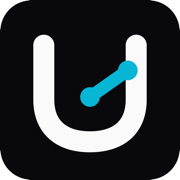
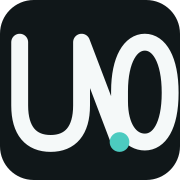
feat(brand): introduce continuous Uno identity

diff --git a/src/components/app/unorag-logo.tsx b/src/components/app/unorag-logo.tsx
@@ -2,15 +2,15 @@ import Image from "next/image";
 
 import { cn } from "@/lib/utils";
 
-/** Primary UnoRAG brand mark asset. */
-const UNORAG_MARK_SRC = "/brand/unorag-mark.svg";
+/** Canonical mark shared by the Uno product family. */
+const UNO_MARK_SRC = "/brand/uno-mark.svg";
 
-type UnoRAGLogoProps = {
+type UnoLogoProps = {
 	className?: string;
 	/** Icon-only mark size. */
 	size?: "sm" | "md" | "lg";
-	/** Show wordmark beside the mark. */
-	withWordmark?: boolean;
+	/** Product suffix appended to the stable Uno mother brand. */
+	suffix?: string;
 	wordmarkClassName?: string;
 };
 
@@ -20,19 +20,21 @@ const sizeClass = {
 	lg: "size-11",
 } as const;
 
-/** UnoRAG U-shaped knowledge graph mark. */
-export function UnoRAGMark({
+/** Continuous U-N-O mother-brand mark. */
+export function UnoMark({
 	className,
 	decorative = true,
+	label = "Uno",
 }: {
 	className?: string;
 	decorative?: boolean;
+	label?: string;
 }) {
 	return (
 		<Image
-			src={UNORAG_MARK_SRC}
-			alt={decorative ? "" : "UnoRAG"}
-			title={decorative ? undefined : "UnoRAG"}
+			src={UNO_MARK_SRC}
+			alt={decorative ? "" : label}
+			title={decorative ? undefined : label}
 			width={128}
 			height={128}
 			draggable={false}
@@ -42,25 +44,44 @@ export function UnoRAGMark({
 	);
 }
 
-export function UnoRAGLogo({
+export function UnoLogo({
 	className,
 	size = "md",
-	withWordmark = false,
+	suffix,
 	wordmarkClassName,
-}: UnoRAGLogoProps) {
+}: UnoLogoProps) {
+	const label = `Uno${suffix ?? ""}`;
+
 	return (
-		<span className={cn("inline-flex min-w-0 items-center gap-2.5", className)}>
-			<UnoRAGMark className={cn(sizeClass[size])} decorative={withWordmark} />
-			{withWordmark ? (
+		<span
+			className={cn("inline-flex min-w-0 items-center gap-2.5", className)}
+			role="img"
+			aria-label={label}
+		>
+			<UnoMark className={cn(sizeClass[size])} decorative />
+			{suffix !== undefined ? (
 				<span
 					className={cn(
-						"font-heading text-lg font-semibold tracking-tight text-primary",
+						"font-heading text-lg font-semibold tracking-normal text-foreground",
 						wordmarkClassName,
 					)}
+					aria-hidden
 				>
-					UnoRAG
+					Uno<span className="text-primary">{suffix}</span>
 				</span>
 			) : null}
 		</span>
 	);
+}
+
+/** Backward-compatible UnoRAG icon export. */
+export function UnoRAGMark(props: React.ComponentProps<typeof UnoMark>) {
+	return <UnoMark {...props} label="UnoRAG" />;
+}
+
+export function UnoRAGLogo({
+	withWordmark = false,
+	...props
+}: Omit<UnoLogoProps, "suffix"> & { withWordmark?: boolean }) {
+	return <UnoLogo {...props} suffix={withWordmark ? "RAG" : undefined} />;
 }

diff --git a/src/components/app/app-sidebar.tsx b/src/components/app/app-sidebar.tsx
@@ -9,7 +9,7 @@ import {
 	getAppNavItemsByGroup,
 } from "@/components/app/nav-items";
 import { useSession } from "@/components/app/session-provider";
-import { UnoRAGMark } from "@/components/app/unorag-logo";
+import { UnoMark } from "@/components/app/unorag-logo";
 import { WorkspaceSwitcher } from "@/components/app/workspace-switcher";
 import {
 	Sidebar,
@@ -103,9 +103,9 @@ export function AppSidebar() {
 								"group-data-[collapsible=icon]:size-8! group-data-[collapsible=icon]:p-1.5! group-data-[collapsible=icon]:[&_img]:size-6!",
 							)}
 						>
-							<UnoRAGMark decorative />
-							<span className="font-heading text-lg font-semibold tracking-tight text-primary">
-								UnoRAG
+							<UnoMark decorative />
+							<span className="font-heading text-lg font-semibold tracking-normal text-foreground">
+								Uno<span className="text-primary">RAG</span>
 							</span>
 						</SidebarMenuButton>
 					</SidebarMenuItem>

diff --git a/src/app/layout.tsx b/src/app/layout.tsx
@@ -16,7 +16,7 @@ export const metadata: Metadata = {
 				type: "image/png",
 			},
 			{
-				url: "/brand/unorag-mark.svg",
+				url: "/brand/uno-mark.svg",
 				type: "image/svg+xml",
 			},
 		],

diff --git a/docs/brand/uno-brand-system.md b/docs/brand/uno-brand-system.md
@@ -1,0 +1,51 @@
+# Uno 品牌系统
+
+Uno 是 Unobyte.dev 及其产品的母品牌。核心符号不是一个孤立的 `U`，而是一条连续路径依次形成
+`U → N → O`。它直接把名称写进轮廓，在小尺寸仍可辨认，也避开常见的 AI 星芒、节点网络和像素化
+字母语言。
+
+![Uno 品牌规范板](./uno-brand-board.svg)
+
+## 品牌架构
+
+| 层级 | 命名 | 用法 |
+|---|---|---|
+| 母品牌 | Unobyte | 官网、团队与组织身份 |
+| 产品 | UnoRAG | 企业知识产品 |
+| 产品 | UnoParse | 文档解析能力（预留） |
+| 产品 | UnoOps | 运维与可观测能力（预留） |
+| 产品 | UnoEval | 评测能力（预留） |
+
+所有产品使用同一个 Uno 图形，不为后缀重新设计图标。文字标识保持 `Uno` 不变，仅用 Signal 色强调
+产品后缀。这样产品数量增长时，识别资产仍然只积累在一个符号上。
+
+## 视觉语言
+
+| Token | 色值 | 用途 |
+|---|---|---|
+| Ink | `#101719` | 标志底色、主要文字 |
+| Paper | `#F5F9F9` | 标志线条、浅色背景 |
+| Signal | `#4CCBC0` | 路径原点、产品后缀、交互强调 |
+| Steel | `#607077` | 次要文字与说明 |
+
+- 图形中的 Signal 点位于 `N/O` 的转换位置，表达一条能力路径继续进入下一个产品。
+- 字标优先使用 IBM Plex Sans；技术标签和版本信息使用 IBM Plex Mono。
+- 不使用负字距、渐变、外发光、阴影、星芒或额外网络节点。
+
+## 尺寸与留白
+
+- `16px` 是数字界面的最小尺寸；低于 `24px` 时只使用图形，不并排放置字标。
+- 图形四周至少保留图标宽度 `1/4` 的留白。
+- 圆角方形是图形本体的一部分，不再套第二层装饰容器。
+- 不改变路径比例、线宽、颜色关系或 Signal 点位置。
+
+## 文件与组件
+
+- `public/brand/uno-mark.svg` 是唯一矢量主源。
+- `uno-mark.png`、favicon 和 Apple touch icon 都从该主源生成。
+- `UnoLogo` 接受产品后缀；`UnoRAGLogo` 是当前产品的兼容封装。
+
+## 权属提醒
+
+该图形为项目内原创矢量方案，未嵌入第三方图形素材。视觉原创不等于商标可注册：公开发布前仍应对
+`Unobyte`、`Uno` 和具体产品名在目标国家、地区及软件相关类别完成正式检索与法律确认。

diff --git a/ASSETS.md b/ASSETS.md
@@ -1,0 +1,22 @@
+# Asset provenance
+
+This file records the origin and redistribution status of visual assets and test fixtures. It is an inventory,
+not a substitute for the repository license or legal review.
+
+## Project-created brand assets
+
+| Files | Origin | Third-party material | Distribution status |
+|---|---|---|---|
+| `public/brand/uno-mark.svg` | Original Continuous UNO vector designed for Unobyte/UnoRAG on 2026-08-06 | None incorporated | Intended to follow the repository license once adopted |
+| `public/brand/uno-mark.png`, `public/favicon-32x32.png`, `public/apple-touch-icon.png` | Raster derivatives generated from `uno-mark.svg` | None incorporated | Same as source SVG |
+| `docs/brand/uno-brand-board.svg` | Original layout using the canonical mark and documented brand tokens | None incorporated | Intended to follow the repository license once adopted |
+
+The project names still require jurisdiction- and class-specific trademark clearance before public commercial use.
+
+## Awaiting owner attestation
+
+The origin and redistribution rights for the following groups must still be confirmed before the repository becomes
+public:
+
+- `public/landing-evidence-desk.png` and `public/product-library-workbench.png`;
+- all documents, scans, images and golden cases under `testdata/`.

diff --git a/docs/OPEN_SOURCE_READINESS.md b/docs/OPEN_SOURCE_READINESS.md
@@ -54,13 +54,13 @@ allowlist 让 CI 变绿。
 下列内容未发现嵌入作者、组织或下载来源元数据，仓库历史显示它们由本项目加入，但仍需要项目所有者
 书面确认“自行创作、生成或有权再许可”：
 
-- `public/brand/`、favicon 与 Apple touch icon；
 - `public/landing-evidence-desk.png`；
 - `public/product-library-workbench.png`；
 - `testdata/` 下 PDF、DOCX、图片化扫描件、文本和黄金集。
 
-确认后应建立 `ASSETS.md`，逐组记录来源、作者/生成方式、许可证和是否允许修改。不能确认的素材必须在
-公开前替换或删除。测试文件为合成内容也应明确记录，避免未来被误认为客户文档。
+`ASSETS.md` 已记录新 Uno 品牌矢量及其派生图片的项目内创作来源；其余素材确认后应继续逐组补充
+来源、作者/生成方式、许可证和是否允许修改。不能确认的素材必须在公开前替换或删除。测试文件为
+合成内容也应明确记录，避免未来被误认为客户文档。
 
 ### 4. 公开历史策略
 

diff --git a/docs/README.md b/docs/README.md
@@ -32,6 +32,7 @@
 
 设计与演进说明：
 
+- [Uno 品牌系统](./brand/uno-brand-system.md)：母品牌图形、产品命名、颜色、尺寸与资产规则；
 - [可观测性架构](./design/observability.md)：已落地的核心原生、可选 Ops 与 Langfuse 三层方案；
 - [Langfuse AI 工程接入](./LANGFUSE.md)：metadata-only 双出口、密钥边界、启用和故障排查；
 - [质量评测与 Prompt 生命周期](./EVALUATION.md)：仓库黄金集、Prompt Registry、发布门禁和可选分数发布；

diff --git a/README.zh-CN.md b/README.zh-CN.md
@@ -1,5 +1,5 @@
 <div align="center">
-  <img src="./public/brand/unorag-mark.png" alt="UnoRAG" width="88" />
+  <img src="./public/brand/uno-mark.png" alt="UnoRAG" width="88" />
   <h1>UnoRAG</h1>
   <p><strong>可私有化部署、权限感知、以证据为中心的企业知识服务。</strong></p>
   <p>

diff --git a/README.md b/README.md
@@ -1,5 +1,5 @@
 <div align="center">
-  <img src="./public/brand/unorag-mark.png" alt="UnoRAG" width="88" />
+  <img src="./public/brand/uno-mark.png" alt="UnoRAG" width="88" />
   <h1>UnoRAG</h1>
   <p><strong>Private, permission-aware enterprise knowledge grounded in evidence.</strong></p>
   <p>
